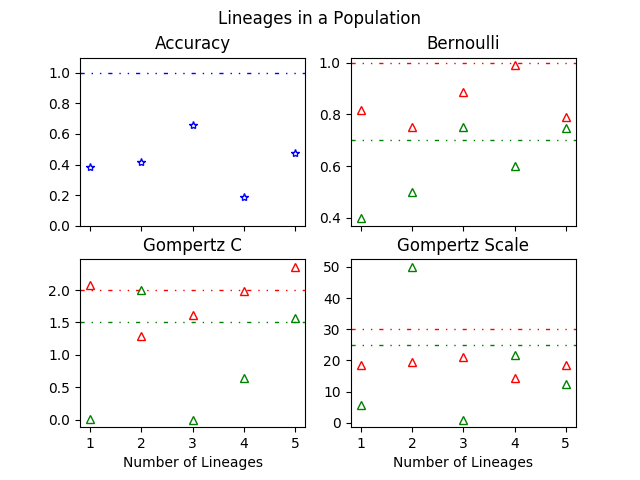
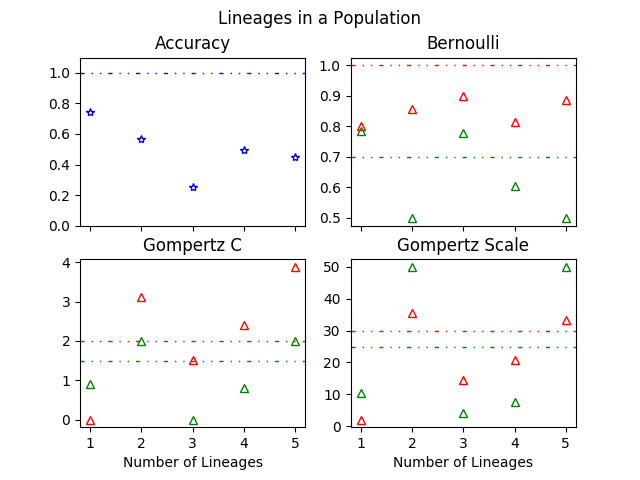
changed parameters for figure2 but failed

diff --git a/Figure2_2Lineage.py b/Figure2_2Lineage.py
@@ -19,7 +19,7 @@ from lineage.CellNode import CellNode
 ########################## Number of Lineages in a population
 
 lineage_start = 1
-lineage_end = 5
+lineage_end = 10
 lineages = range(lineage_start, lineage_end + 1) 
 reps = 1
 '''
@@ -32,8 +32,8 @@ bern2 = [0.7]
 cG2 = [1.5]
 scaleG2 = [25]
 '''
-T_MAS = 50
-T_2 = 75
+T_MAS = 75
+T_2 = 85
 
 MASinitCells = [1]
 MASlocBern = [0.99999999999]
